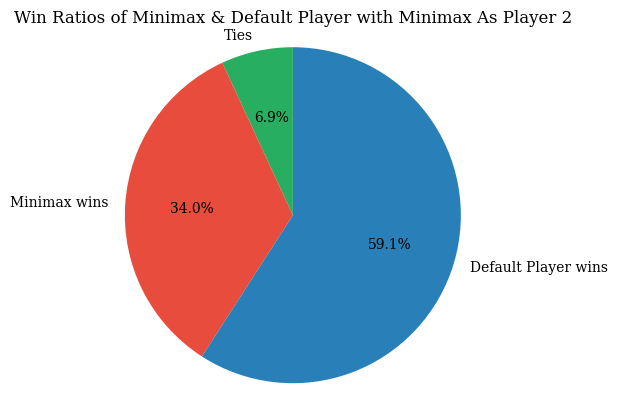
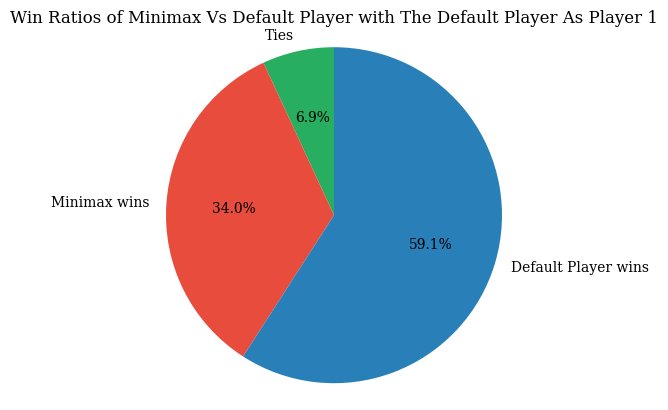
pie plots

diff --git a/Plot_results.py b/Plot_results.py
@@ -25,7 +25,7 @@ labels = ['Ties','Minimax wins','Default Player wins']
 colors = ['#27ae60', '#e74c3c', '#2980b9']
 
 plt.pie(sizes, labels=labels, colors=colors, autopct='%1.1f%%', startangle=90)
-plt.title('Win Ratios of Minimax Vs Default Player with Minimax As Player 2', fontsize=12, fontfamily='serif')
+plt.title('Win Ratios of Minimax Vs Default Player with The Default Player As Player 1', fontsize=12, fontfamily='serif')
 plt.axis('equal')
 plt.savefig('Plots/Minimax_P2_vs_Default.png', bbox_inches='tight')
 #plt.show()
